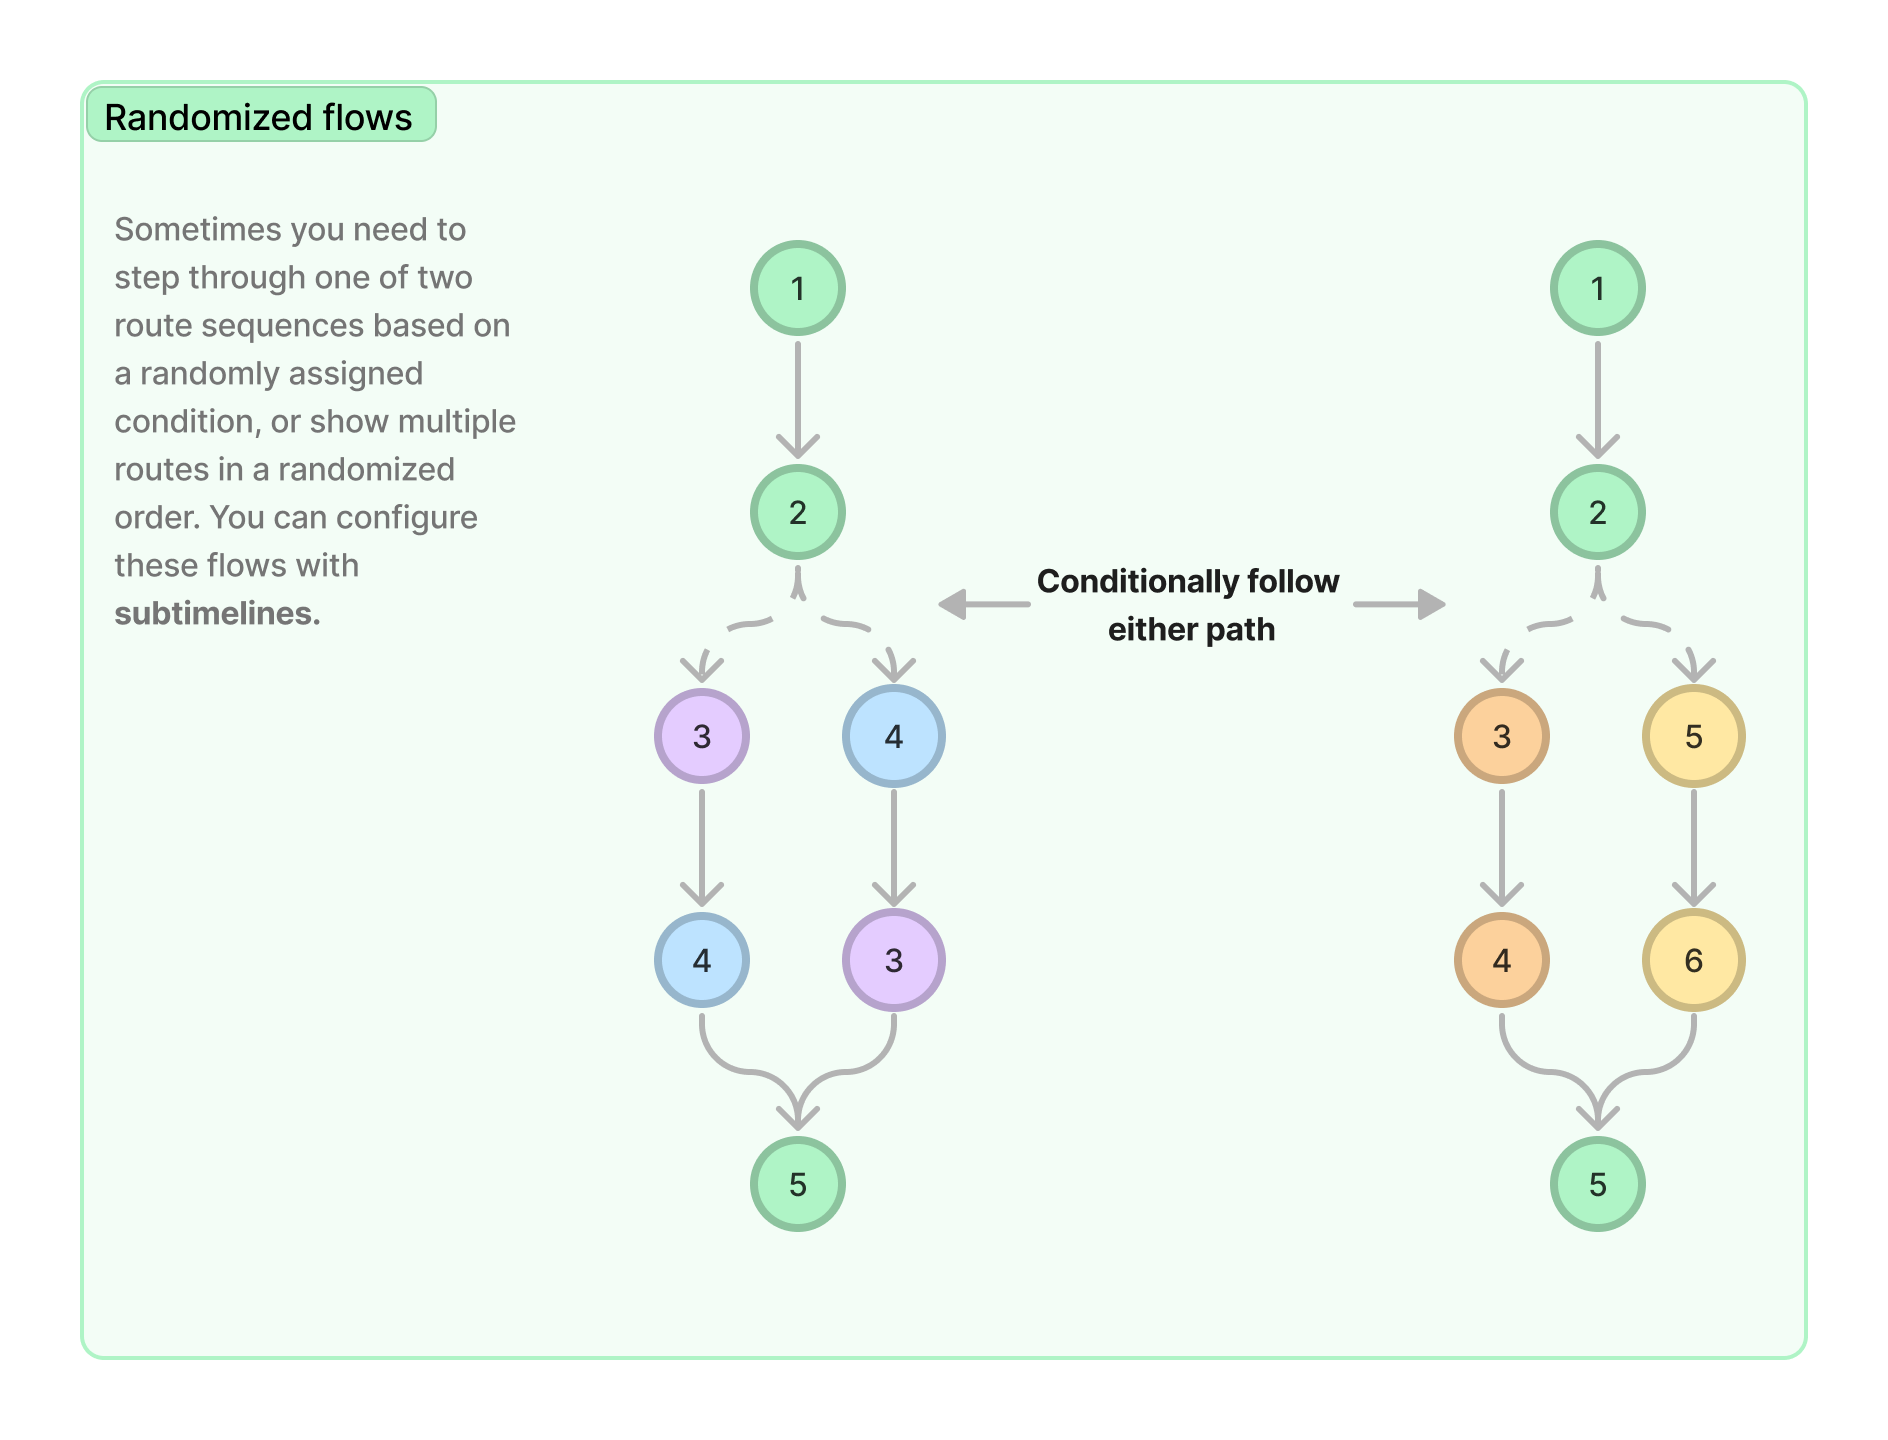
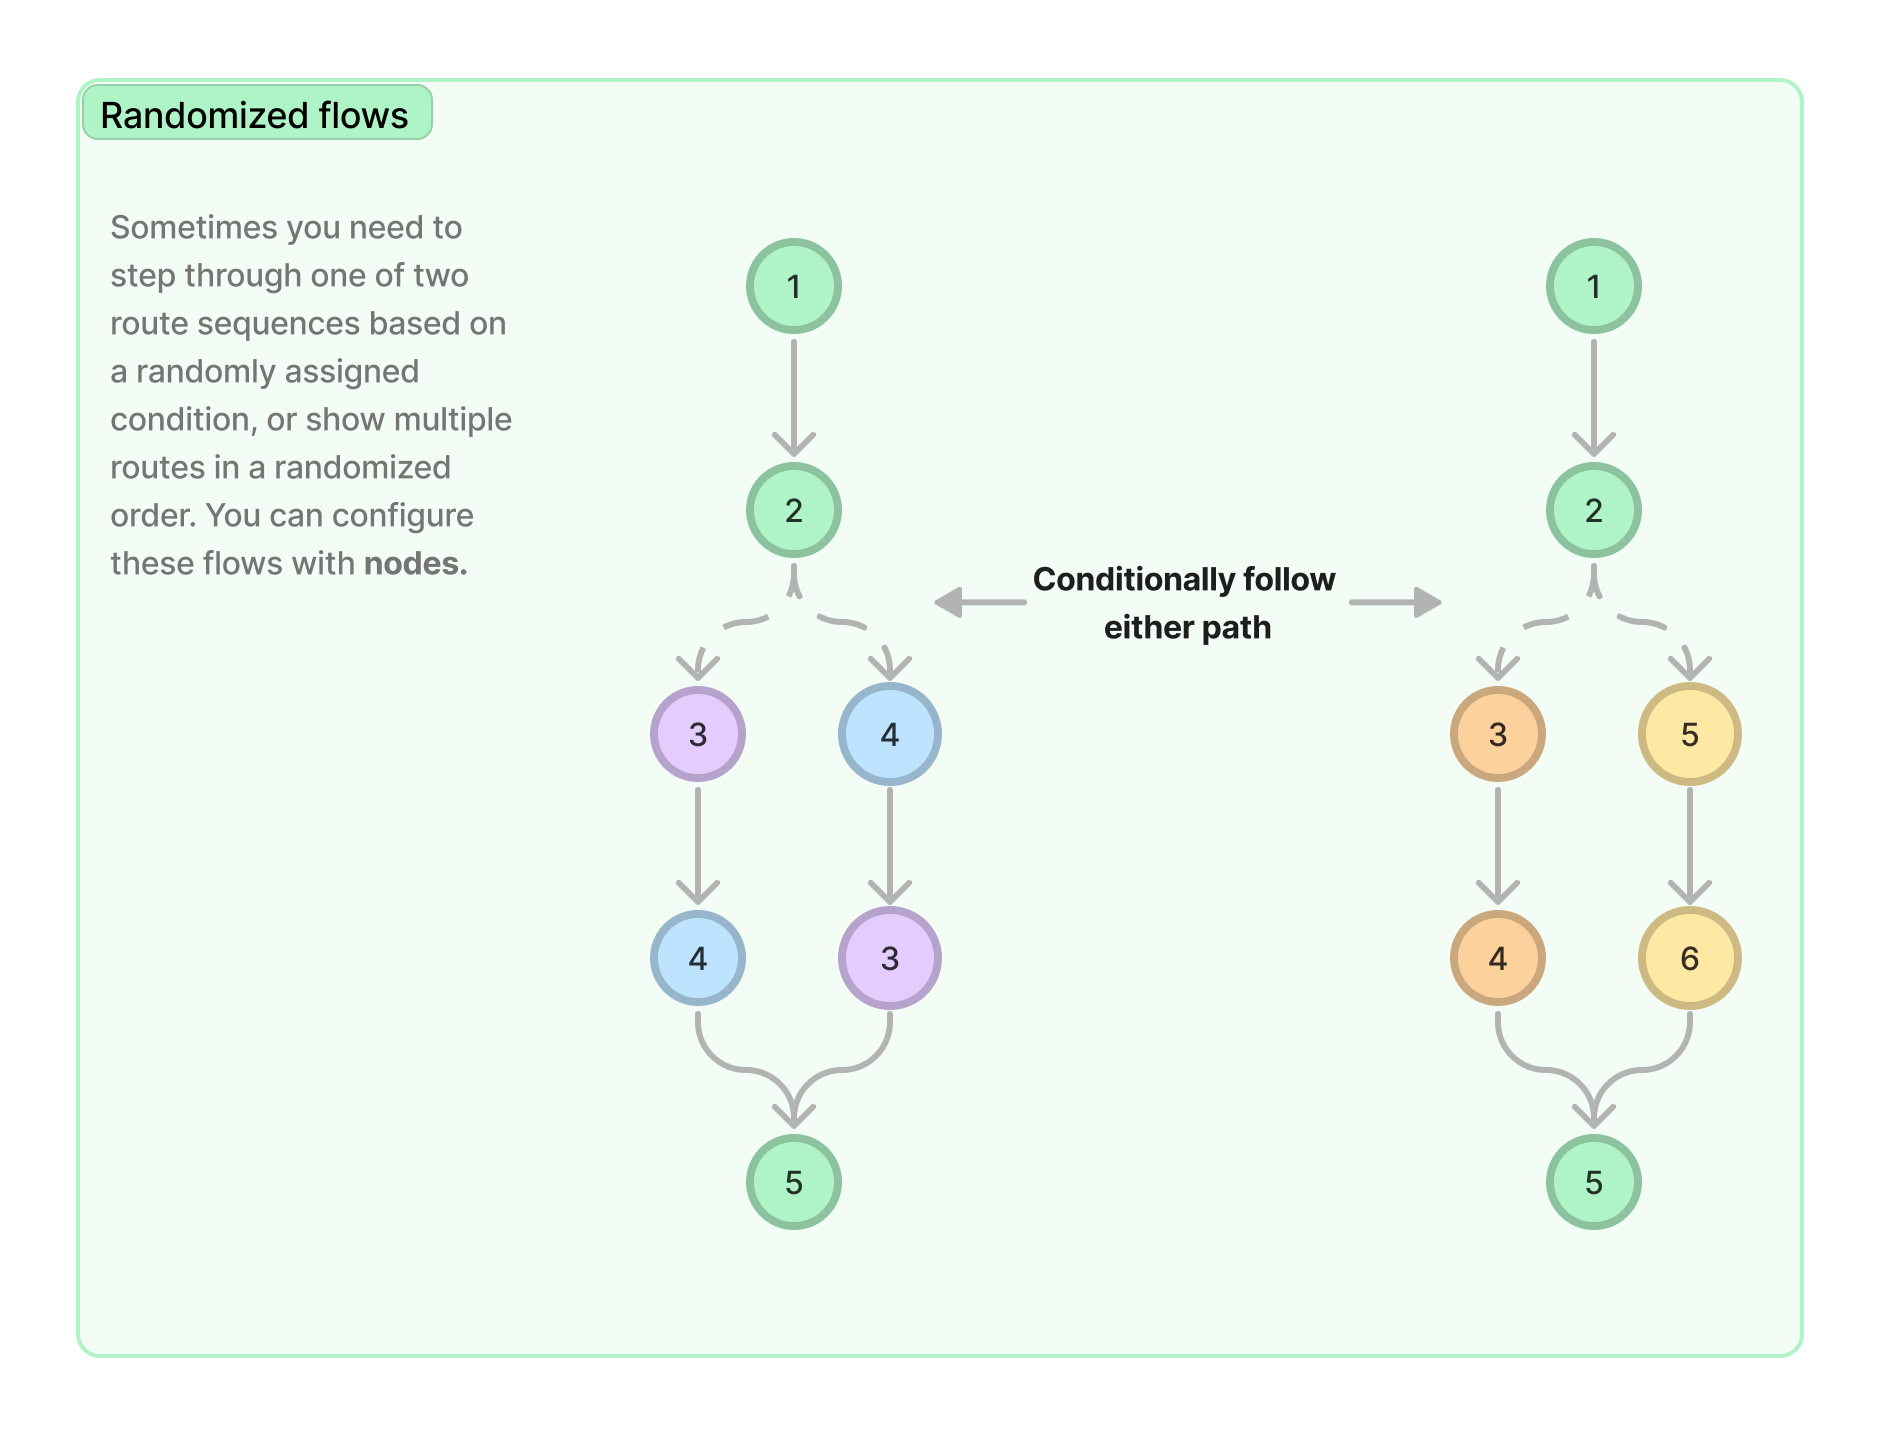
wording tweaks for nodes

diff --git a/docs/timeline.md b/docs/timeline.md
@@ -293,7 +293,6 @@ successor using `meta: {next: 'some_name'}` (or predecessor using
 ```js
 // first route
 timeline.pushSeqView({
-  path: '/first',
   name: 'first',
   meta: { next: 'second' }, // this should jump to a specific route (by name)
   component: FirstComponent,
@@ -301,7 +300,6 @@ timeline.pushSeqView({
 
 // alternative first route
 timeline.pushSeqView({
-  path: '/first_alt',
   name: 'first_alternate',
   meta: { next: 'second' }, // this should jump to a specific route (by name)
   component: AlternativeFirstCompomnet,
@@ -309,14 +307,12 @@ timeline.pushSeqView({
 
 // second route
 timeline.pushSeqView({
-  path: '/second',
   name: 'second',
   component: SecondComponent,
 })
 
 // third route
 timeline.pushSeqView({
-  path: '/third',
   name: 'third',
   component: ThirdComponent,
 })
@@ -340,7 +336,7 @@ randomized order. Or, you might have four tasks, and you want one group of
 participants to see two of the tasks and the other group to see the other two
 tasks. We call these "alternative flows":
 
-<!-- <img src="/images/randomizedflows.png" width="500" alt="timeline example" style="margin: auto;"> -->
+<img src="/images/randomizedflows.png" width="500" alt="timeline example" style="margin: auto;">
 
 These alternative flows can be accomplished by adding <b>nodes</b>, which you can think of as containing several paths of views and guiding participants along one of those paths. There are two types of nodes: <i>randomized</i> and <i>conditional</i>. 
 
@@ -356,20 +352,17 @@ const timeline = new Timeline()
 
 // push instructions
 timeline.pushSeqView({
-  path: '/instructions',
   name: 'instructions',
   component: Instructions,
 })
 
 // register tasks
 randTimeline.registerView({
-  path: '/task1',
   name: 'task1',
   component: Task1,
 })
 
 randTimeline.registerView({
-  path: '/task2',
   name: 'task2',
   component: Task2,
 })
@@ -385,7 +378,6 @@ timeline.pushRandomizedNode({
 
 // push debriefing form
 timeline.pushSeqView({
-  path: '/debrief',
   name: 'debrief',
   component: Debrief,
 })
@@ -413,7 +405,7 @@ Note that the weights are automatically normalized, so [2/3, 1/3] or [4, 2] woul
 
 #### Conditional nodes
 
-The view order can be set by which condition the participant is in. This can be more useful than a simple randomized node if other aspects of the experiment will depend on the condition. Here's an example:
+The selection and order of components to display can also be set by assigning participants to conditions. This can be more useful than a simple randomized node if other aspects of the experiment will depend on the condition. Here's an example:
 
 ```js
 import Timeline from '@/core/timeline'
@@ -433,13 +425,11 @@ timeline.pushSeqView({
 
 // push tasks into timeline as "non-sequential" routes
 randTimeline.registerView({
-  path: '/taskA',
   name: 'taskA',
   component: TaskA,
 })
 
 randTimeline.registerView({
-  path: '/taskB',
   name: 'taskB',
   component: TaskB,
 })
